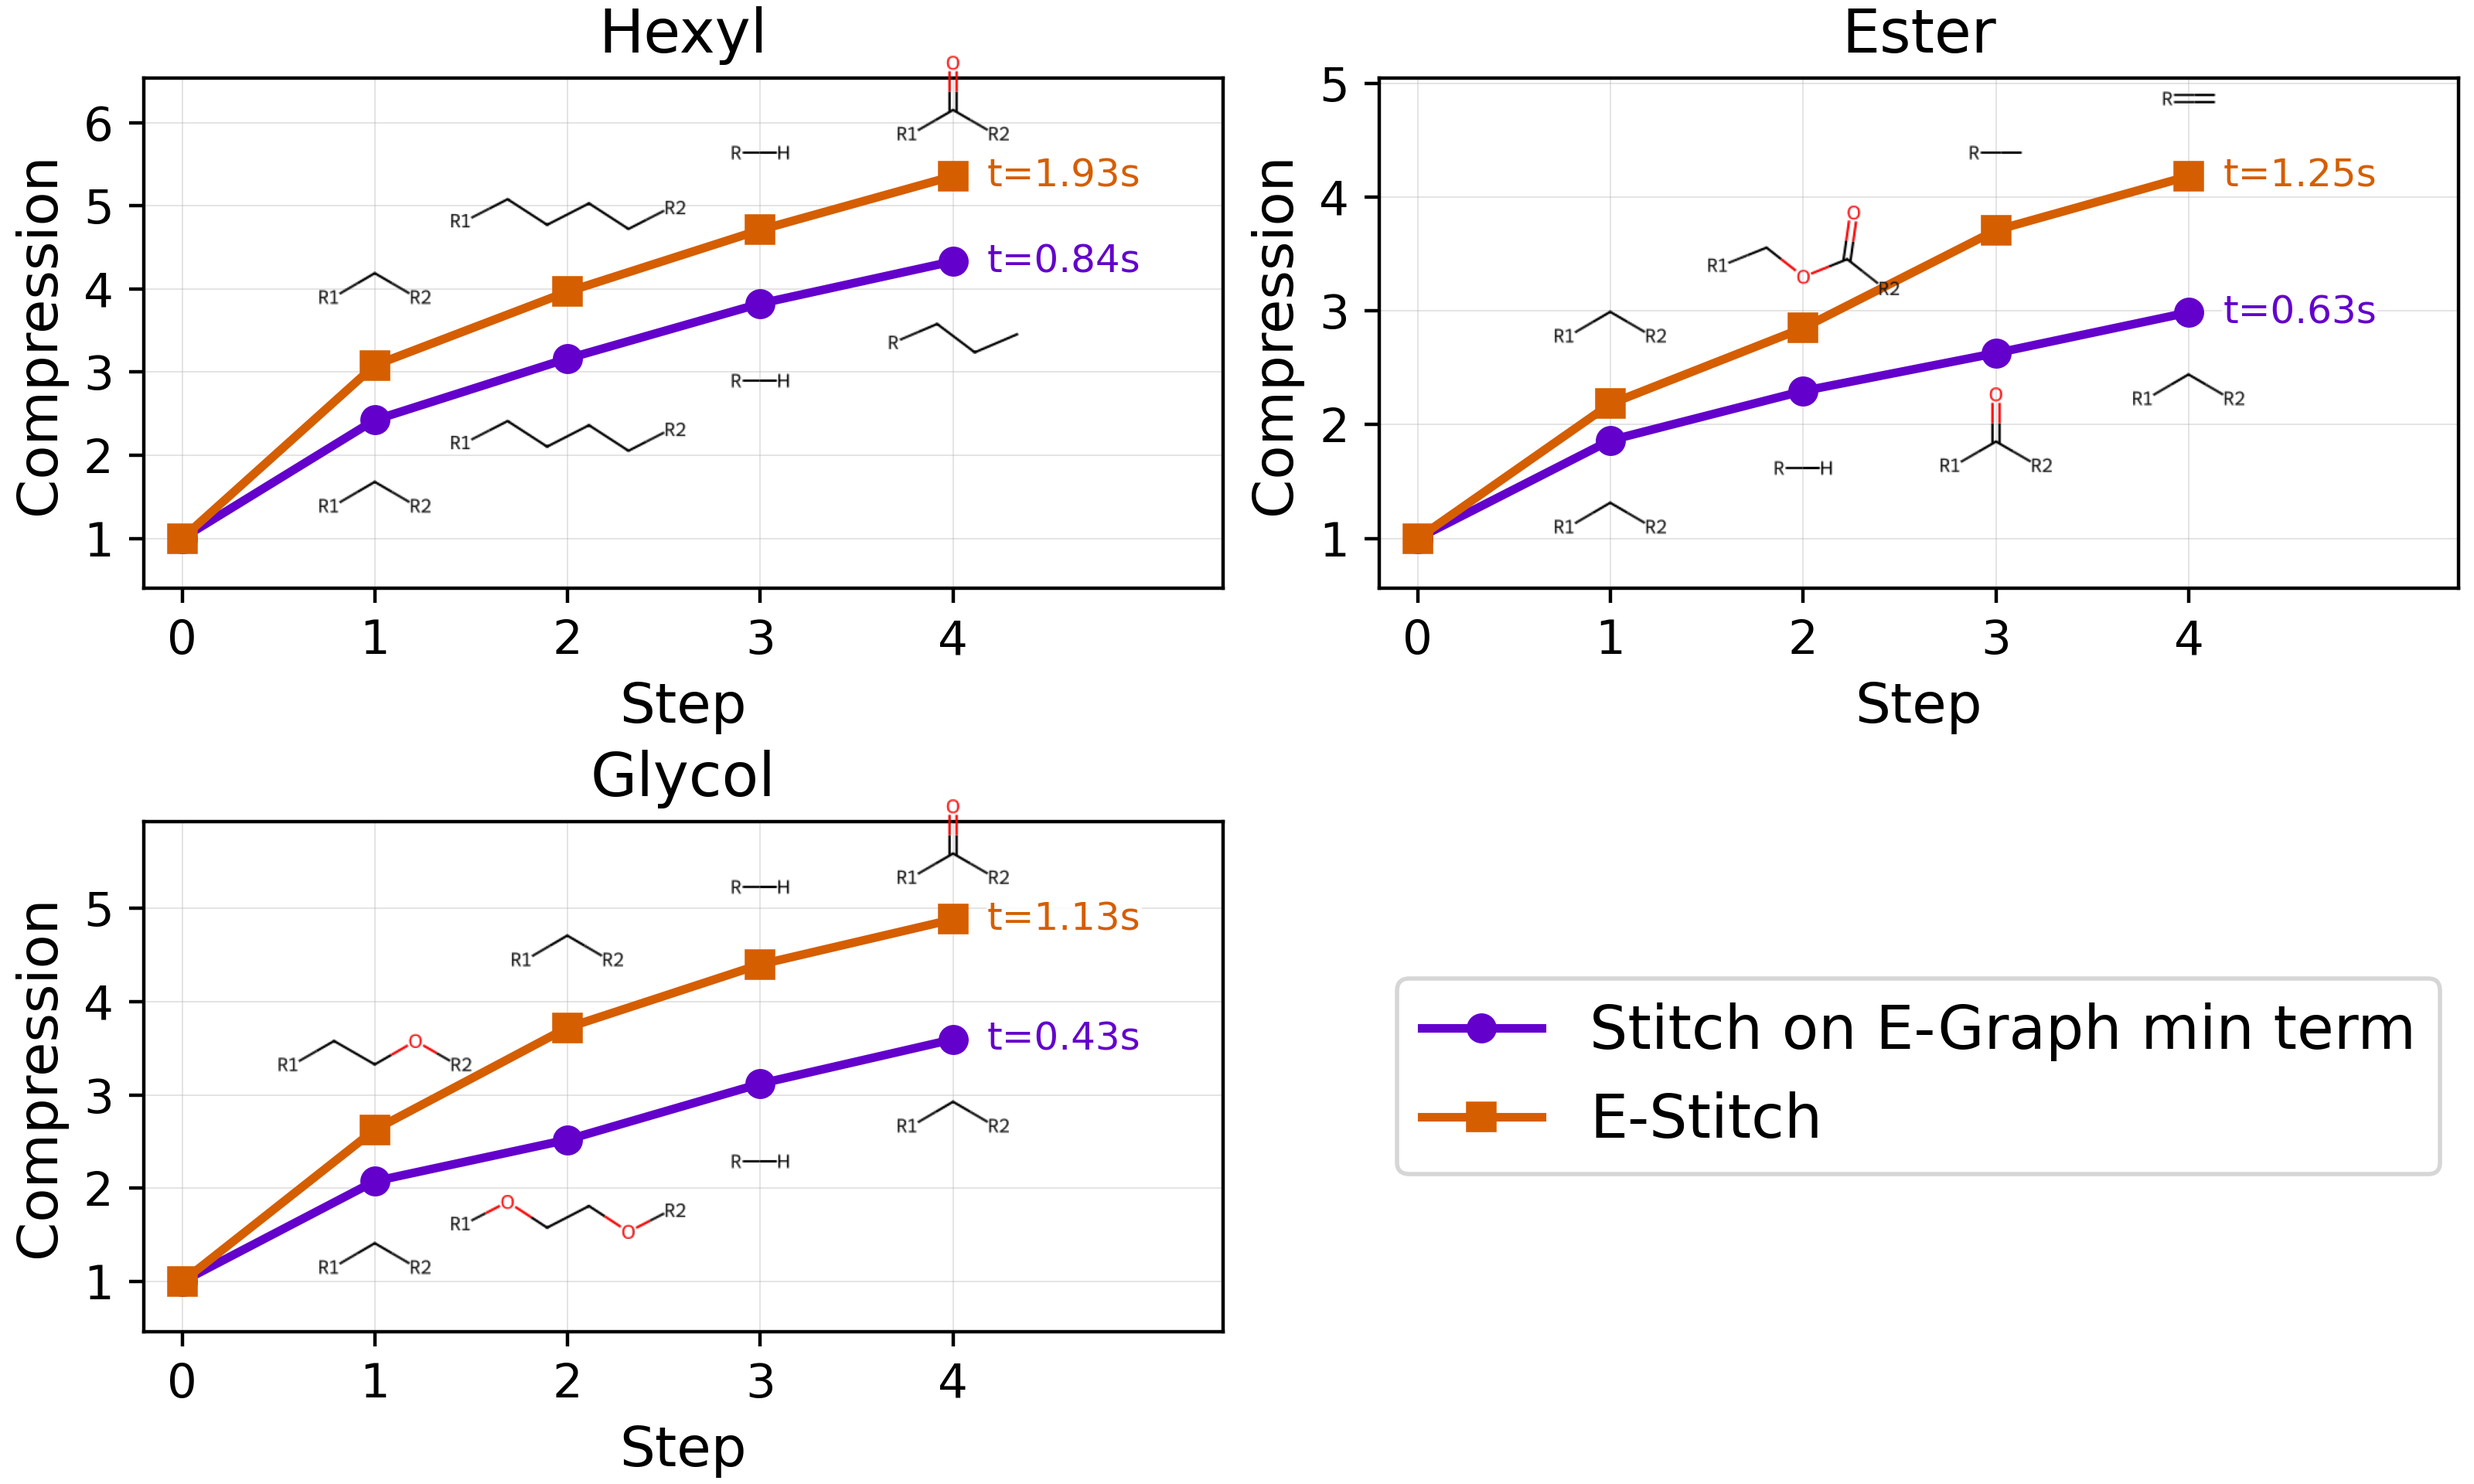
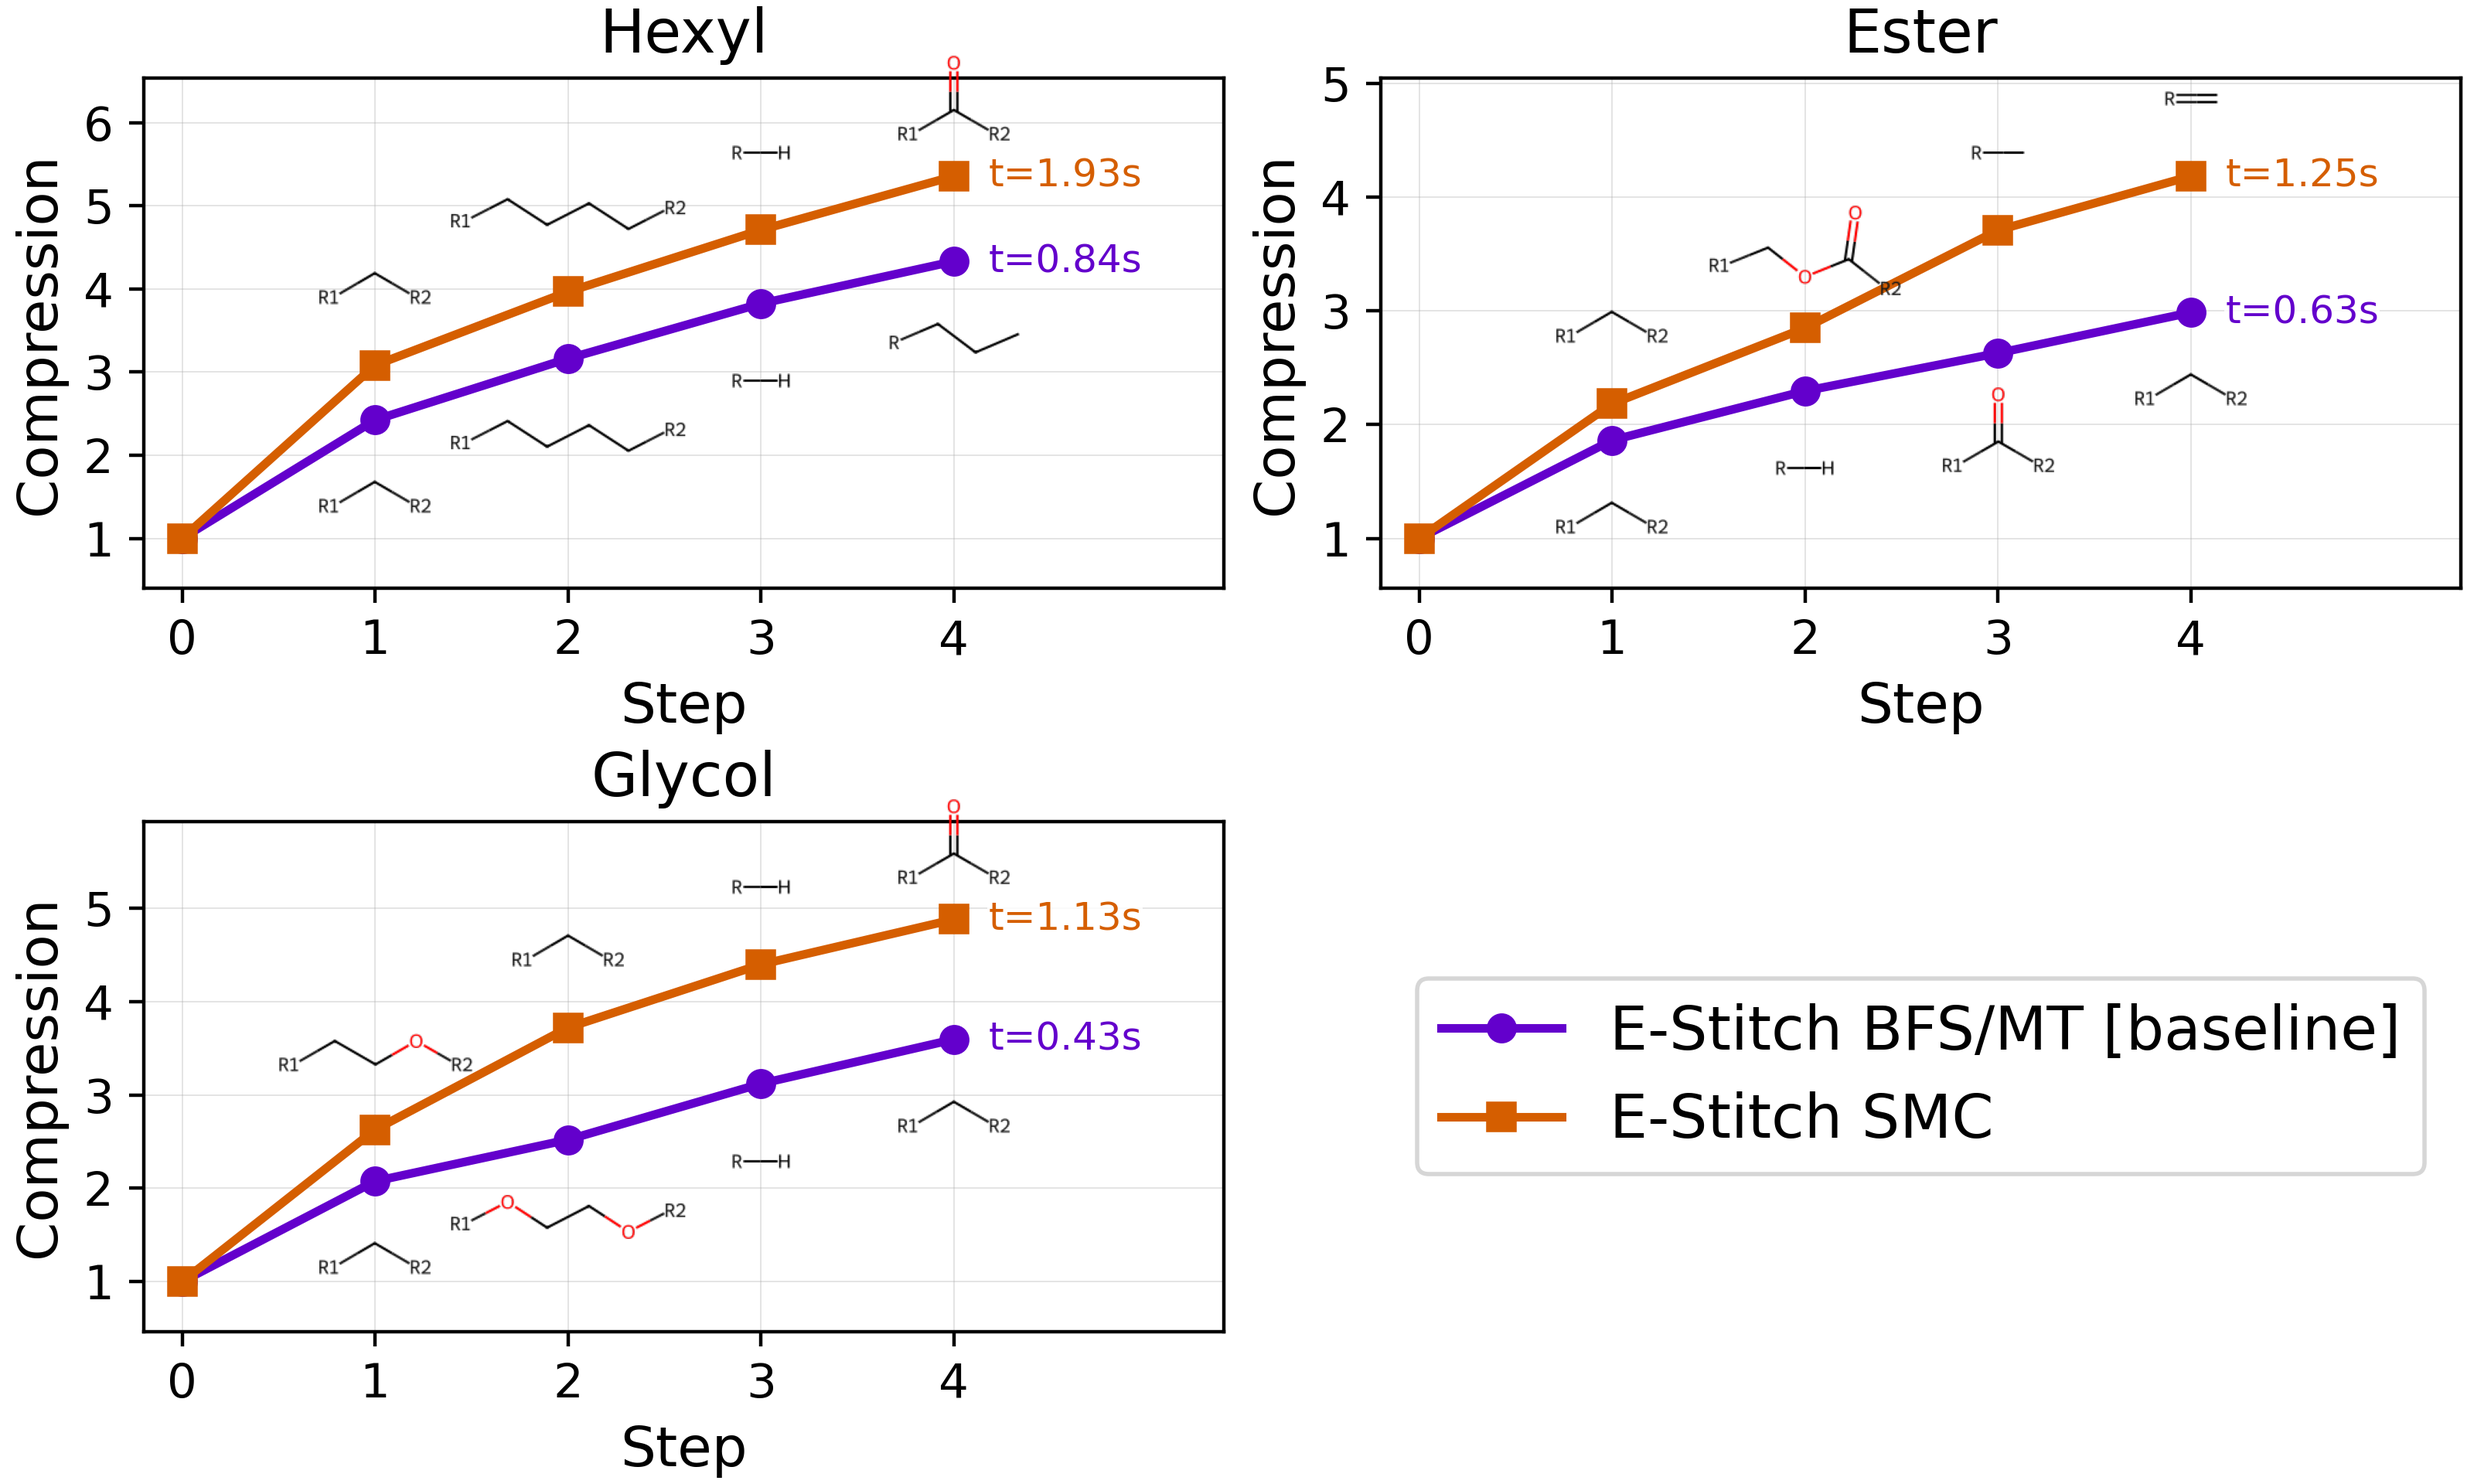
Label Figure 6's series E-Stitch SMC and E-Stitch BFS/MT [baseline], as in the paper (#376)

diff --git a/scripts/render_molecules.py b/scripts/render_molecules.py
@@ -6,7 +6,7 @@ Reads ``results/molecules.json`` (the molecule-subset table; see
 per-iteration cost trajectory this renderer draws:
 
   ``enum-dsrs-at-start`` -- DSRs canonicalise the egraph once, then search
-                            runs rule-free (the "Stitch on E-graph min term"
+                            runs rule-free (the BFS/MT
                             baseline);
   ``smc-1000``           -- DSRs kept live during search (E-Stitch), with the
                             SMC sampler at the canonical 1000-particle point.
@@ -52,8 +52,8 @@ METHOD_MARKERS = {
 }
 
 METHOD_COMMON_NAME = {
-    "DSR-canon": "Stitch on E-Graph min term",
-    "search-DSR": "E-Stitch",
+    "DSR-canon": "E-Stitch BFS/MT [baseline]",
+    "search-DSR": "E-Stitch SMC",
 }
 
 # Font sizes (points) for the combined 2x2 figure. Kept deliberately large
